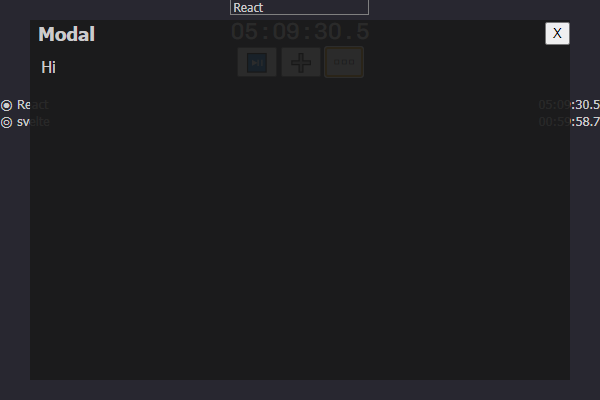
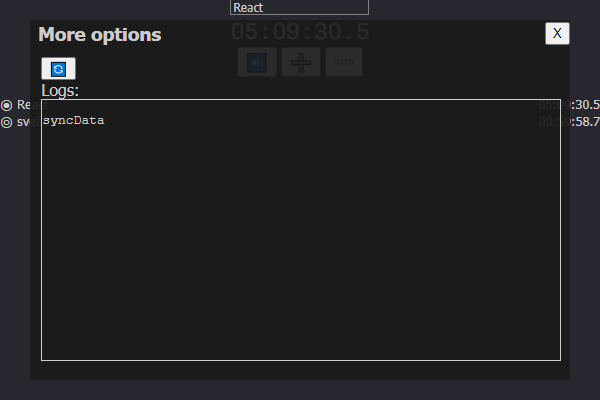
feat:fe: created Sync component; style: added some style to modal

Changed region(s): [[0.06, 0.12, 0.18, 0.33], [0.12, 0.06, 0.27, 0.12]]

diff --git a/src/renderer/App.tsx b/src/renderer/App.tsx
@@ -11,6 +11,7 @@ import AddTimer from './components/AddTimer/AddTimer';
 import { api } from './utils/trpc';
 import './App.css';
 import Modal from './components/Modal/Modal';
+import Sync from './components/Sync/Sync';
 
 
 const Main = () => {
@@ -111,11 +112,14 @@ const Main = () => {
       >
       <Modal
           isShowModal={isShowModal}
-          title='Modal'
+          title='More options'
           onClose={() => setIsShowModal(false)}
         >
-        <p>Hi</p>
+          <div className="modal-body">
+            <Sync />
+          </div>
       </Modal>
+
       <Timer
         key={timerArray.find(cT => cT.id === selTimerId)?.id}
         timerData={timerArray.find(cT => cT.id === selTimerId)}
@@ -135,17 +139,17 @@ const Main = () => {
               />
               <button
                 type='button'
-                onClick={() => setIsShowAddTimer(!isShowAddTimer)}
-                className='toggle-add-timer'
                 title='Show or hide add timer form'
+                className='toggle-add-timer'
+                onClick={() => setIsShowAddTimer(!isShowAddTimer)}
                 >
                 ➕
               </button>
               <button
                 type='button'
-                onClick={handleToggleMoreOptions}
+                title='Show More options modal'
                 className='toggle-more-options'
-                title='Show or hide more options modal'
+                onClick={handleToggleMoreOptions}
                 >
                 ▫▫▫
               </button>

diff --git a/src/renderer/components/Sync/Sync.tsx b/src/renderer/components/Sync/Sync.tsx
@@ -1,0 +1,32 @@
+import { FC, useEffect, useState } from 'react';
+import styles from './sync.module.css';
+
+interface ISyncProps {
+};
+
+const Sync: FC<ISyncProps> = (props) => {
+
+  return (
+    <div className={styles.sync}>
+      <button
+        type='button'
+        title='Sync Tasks with Database'
+        onClick={() => {return false}}
+        className={styles["sync-button"]}
+      >
+        🔄
+      </button>
+      <div className={styles.body}>
+        <p>Logs: </p>
+        <div className={styles["data-wrapper"]}>
+          <pre>
+            syncData
+          </pre>
+
+        </div>
+      </div>
+    </div>
+  )
+};
+
+export default Sync;

diff --git a/src/renderer/components/Modal/modal.module.css b/src/renderer/components/Modal/modal.module.css
@@ -1,18 +1,23 @@
 .modal {
   position: absolute;
   transform: translate(5vw, 5vh);
+  height: 90%;
+  overflow: auto;
 }
 
 .show-modal {
   height: 90vh;
   width: 90vw;
   background-color: hsla(0deg, 0%, 10%, 0.92);
+  height: 100%;
 }
 
 .show-modal .heading {
   display: flex;
   justify-content: space-between;
+  position: sticky;
   padding: 0.1rem 0;
+  /* height: 20%; */
   width: 100%;
 }
 
@@ -22,5 +27,9 @@
 }
 
 .show-modal .body {
+  position: relative;
+  /* margin-top: 2rem; */
+  /* padding-top: 4rem; */
   padding: 0.7rem;
+  height: 80%;
 }

diff --git a/src/renderer/components/Modal/Modal.tsx b/src/renderer/components/Modal/Modal.tsx
@@ -25,7 +25,8 @@ const Modal: FC<IModalProps> = (props) => {
               <h3>{title}</h3>
               <button
                   type='button'
-                  onClick={() =>onClose(false)}
+                  title='Close Modal'
+                  onClick={() => onClose(false)}
                 >
                 X
               </button>

diff --git a/src/renderer/components/TimerButton/TimerButton.tsx b/src/renderer/components/TimerButton/TimerButton.tsx
@@ -13,8 +13,8 @@ const TimerButton: FC<ITimerButtonProps> = (props) => {
 
       <button
         type='button'
-        onClick={handleToggleTimerState}
         title='Pause or resume timer'
+        onClick={handleToggleTimerState}
         >
       ⏯
       </button>

diff --git a/src/renderer/components/Sync/sync.module.css b/src/renderer/components/Sync/sync.module.css
@@ -1,0 +1,13 @@
+.sync {
+  height: 100%;
+}
+
+.sync .body {
+  height: 100%;
+}
+
+.sync .data-wrapper {
+  border: 1px solid hsl(0deg, 0%, 80%);
+  height: 90%;
+  width: 100%;
+}

diff --git a/src/renderer/App.css b/src/renderer/App.css
@@ -56,6 +56,10 @@ button {
   background-color: hsl(249deg 11% 17%);
 }
 
+.modal-body {
+  height: 100%;
+}
+
 .timerWrapper {
   cursor: pointer;
   user-select: none;
